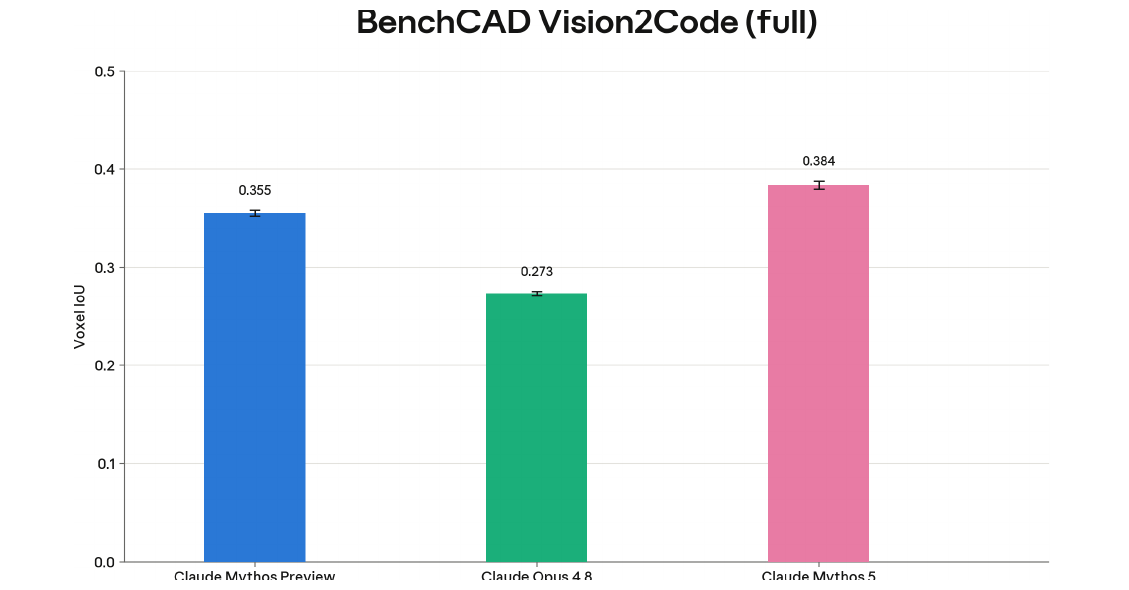
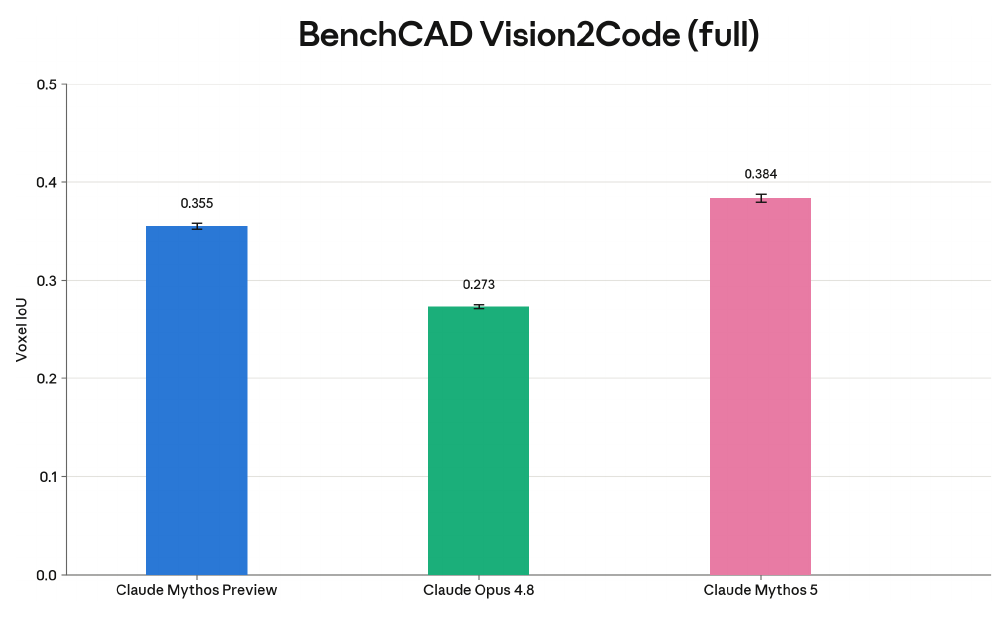
BenchCAD project page: add Sonnet 5 system-card figure; re-crop Fable/Mythos figures to show full x-axis labels (were cut)

diff --git a/_projects/1_project.md b/_projects/1_project.md
@@ -18,8 +18,12 @@ Findings: current models often recover the coarse outer geometry of a part but f
 
 Anthropic has used BenchCAD in two official system cards to evaluate their frontier models on the Vision2Code task: the [Claude Fable 5 &amp; Mythos 5 System Card](https://www-cdn.anthropic.com/2f9323abbcc4abe219577539efe19a623c9ca2bd/Claude%20Fable%205%20&%20Claude%20Mythos%205%20System%20Card.pdf) (§8.16.4) and, most recently, the [Claude Sonnet 5 System Card](https://www-cdn.anthropic.com/480e0bb54327b9622282e9c39a83a4f490ed377e/Claude%20Sonnet%205%20System%20Card.pdf) (§8.10.3, June 30 2026). In the Fable 5 / Mythos 5 card they also ran a Python-tools ablation, where Vision2Code performance jumped from 0.379 to 0.650 voxel IoU once the model could render and visually verify its output.
 
-<img src="/assets/img/projects/benchcad_syscard_full.png" alt="BenchCAD Vision2Code scores, full benchmark" style="display:block;max-width:100%;height:auto;margin:1rem auto;border-radius:6px;">
+<img src="/assets/img/projects/benchcad_syscard_full.png" alt="BenchCAD Vision2Code scores, full benchmark" style="display:block;width:100%;height:auto;margin:1rem auto;border-radius:6px;">
 
-<img src="/assets/img/projects/benchcad_syscard_tools.png" alt="BenchCAD Vision2Code scores with and without Python tools" style="display:block;max-width:100%;height:auto;margin:1rem auto;border-radius:6px;">
+<img src="/assets/img/projects/benchcad_syscard_tools.png" alt="BenchCAD Vision2Code scores with and without Python tools" style="display:block;width:100%;height:auto;margin:1rem auto;border-radius:6px;">
 
-<small>Figures: Anthropic, *Claude Fable 5 &amp; Claude Mythos 5 System Card* (June 2026), §8.16.4.</small>
+<small>Figures from the *Claude Fable 5 &amp; Mythos 5 System Card* (§8.16.4).</small>
+
+<img src="/assets/img/projects/benchcad_syscard_sonnet5.png" alt="BenchCAD Vision2Code subset scores in the Claude Sonnet 5 System Card" style="display:block;width:100%;height:auto;margin:1.5rem auto 1rem;border-radius:6px;">
+
+<small>Figure from the *Claude Sonnet 5 System Card* (§8.10.3, June 30 2026).</small>
